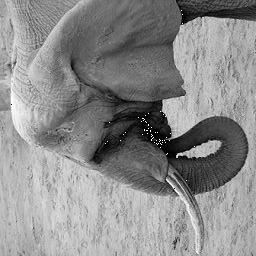
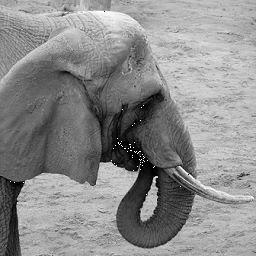
update image

diff --git a/src/Image.java b/src/Image.java
@@ -215,52 +215,7 @@ public class Image {
             e.printStackTrace();
         }
     }
-    void print(){
-        for (int i = 0; i < 20; i++) {
-            for (int j = 0; j < 20; j++) {
-                System.out.print(originalList.get(i).get(j)+" ");
-            }
-            System.out.println();
-        }
-        System.out.println("pred List ");
-        for (int i = 0; i < 20; i++) {
-            for (int j = 0; j < 20; j++) {
-                System.out.print(predictList.get(i).get(j)+ " ");
-            }
-            System.out.println();
-        }
-        System.out.println("diff List ");
-        for (int i = 0; i < 20; i++) {
-            for (int j = 0; j < 20; j++) {
-                System.out.print(differenceList.get(i).get(j)+ " ");
-            }
-            System.out.println();
-        }System.out.println("quan List ");
-        for (int i = 0; i < 20; i++) {
-            for (int j = 0; j < 20; j++) {
-                System.out.print(quantizerList.get(i).get(j)+ " ");
-            }
-            System.out.println();
-        }System.out.println("DEQuan List ");
-        for (int i = 0; i < 20; i++) {
-            for (int j = 0; j < 20; j++) {
-                System.out.print(dequantizerList.get(i).get(j)+ " ");
-            }
-            System.out.println();
-        }
-        System.out.println("decoded List ");
-        for (int i = 0; i < 20; i++) {
-            for (int j = 0; j < 20; j++) {
-                System.out.print(decodeList.get(i).get(j)+ " ");
-            }
-            System.out.println();
-        }
 
-        for(Quantizer q:quantizerRanges){
-            q.printQuantizer();
-            System.out.println("");
-        }
-    }
     public void compress(String imagePath, String outputFileName) {
         readImage(imagePath);
         originalList = getImagePixels(imagePath);

diff --git a/src/ReadWriteImage.java b/src/ReadWriteImage.java
@@ -22,7 +22,7 @@ public class ReadWriteImage {
             for (int i = 0; i < rowsColumns[0]; i++) {
                 List<Integer> row = new ArrayList<>();
                 for (int j = 0; j < rowsColumns[1]; j++) {
-                    row.add(image.getRGB(j, i) & 0xFF); // Corrected indices
+                    row.add(image.getRGB(j, i) & 0xFF); 
                 }
                 result.add(row);
             }
@@ -36,12 +36,13 @@ public class ReadWriteImage {
         public void convert2DArrayToImage(String imageName, List<List<Integer>> image){
 
             BufferedImage theImage = new BufferedImage(image.size(), image.get(0).size(), BufferedImage.TYPE_INT_RGB);
-            for (int i = 0; i < image.size(); i++) {
-                for (int j = 0; j < image.get(0).size(); j++) {
-                    int value = image.get(i).get(j) << 16 | image.get(i).get(j) << 8 | image.get(i).get(j);
+            for (int i = 0; i < image.get(0).size(); i++) {
+                for (int j = 0; j < image.size(); j++) {
+                    int value = image.get(j).get(i) << 16 | image.get(j).get(i) << 8 | image.get(j).get(i);
                     theImage.setRGB(i, j, value);
                 }
             }
+
 
             File outputfile = new File(imageName);
             try {
